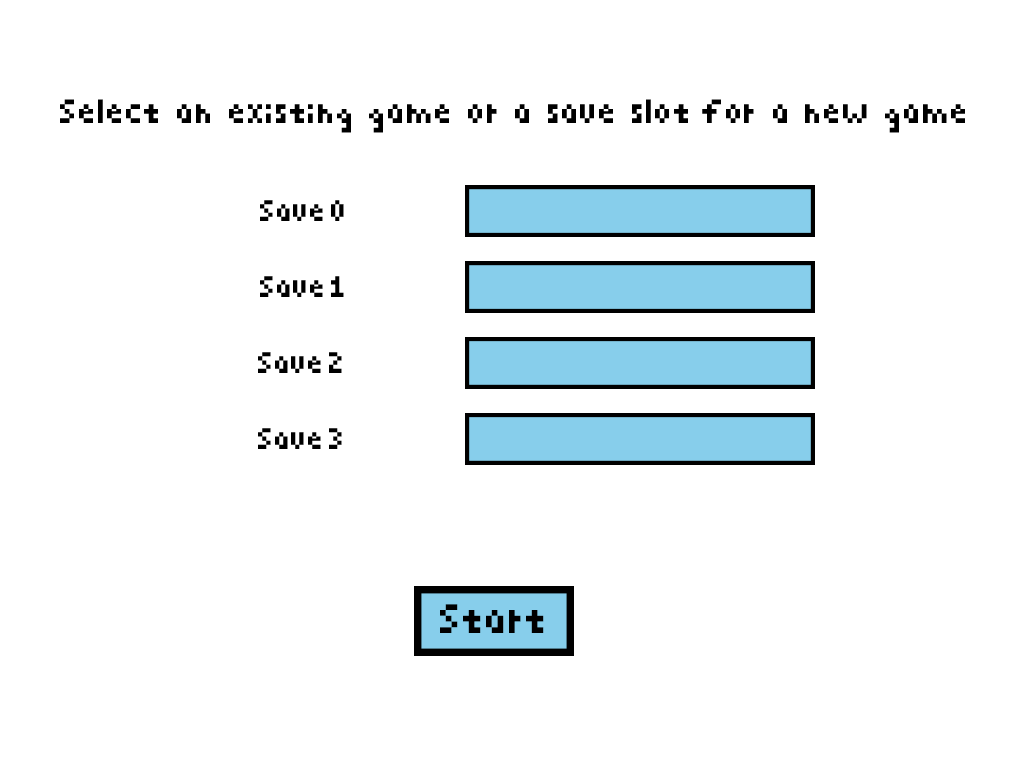
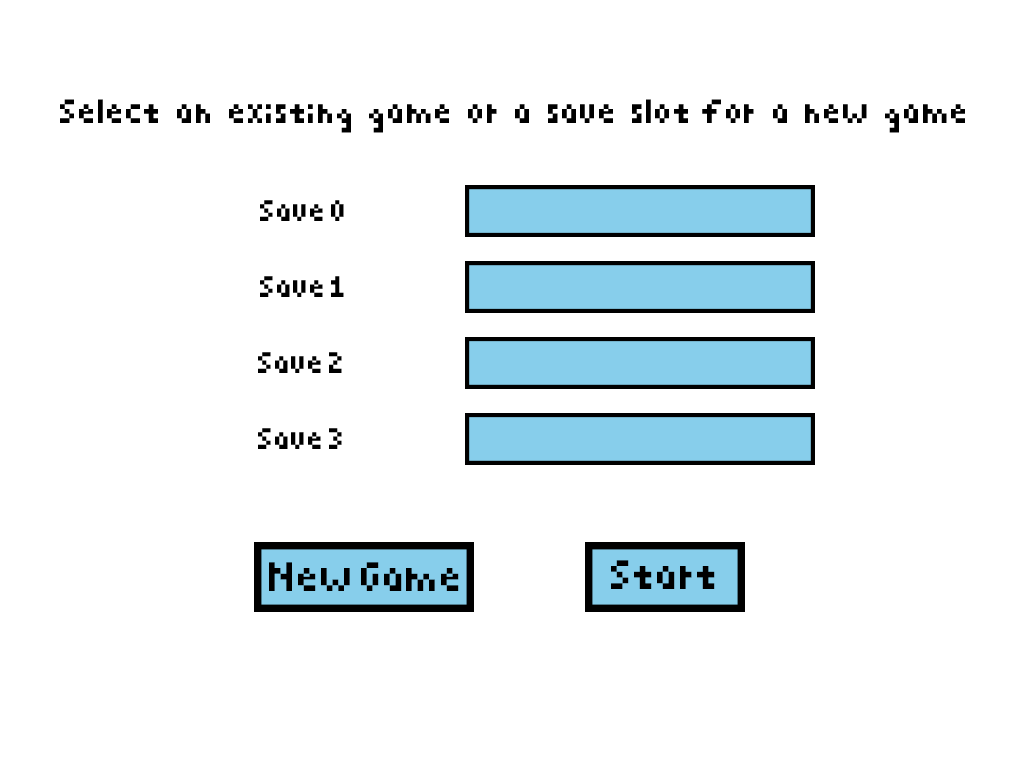
Improved save and load menus

Changed region(s): [[0.25, 0.6875, 0.75, 0.875]]

diff --git a/MonsterGenome/SourceFiles/StartMenu.cpp b/MonsterGenome/SourceFiles/StartMenu.cpp
@@ -6,6 +6,16 @@ StartMenu::StartMenu(float width, float height, std::map<std::string, sf::Keyboa
     selected = 0;
     entered = -1;
 
+    font.loadFromFile("../../Assets/Fonts/PixelFont.ttf");
+    error.setString("Error: No save slot selected!");
+    error.setFont(font);
+    error.setFillColor(Color::Red);
+    error.setCharacterSize(45);
+    FloatRect errorBox = error.getGlobalBounds();
+    float errorOffset = errorBox.width / 2;
+    error.setPosition((1024 / 2) - errorOffset, 668);
+    errorFlag = false;
+
     xValue = 465;
     yValue[0] = 185;
     yValue[1] = 261;
@@ -15,9 +25,13 @@ StartMenu::StartMenu(float width, float height, std::map<std::string, sf::Keyboa
     menu.loadFromFile("../../Assets/Backgrounds/StartScreen/StartMenu.png");
     menuSprite.setTexture(menu);
 
+    newButton.loadFromFile("../../Assets/Backgrounds/StartScreen/NewGameButtonSelected.png");
+    newButtonSprite.setTexture(newButton);
+    newButtonSprite.setPosition(254, 542);
+
     startButton.loadFromFile("../../Assets/Backgrounds/StartScreen/StartButtonSelected.png");
     startButtonSprite.setTexture(startButton);
-    startButtonSprite.setPosition(414, 586);
+    startButtonSprite.setPosition(585, 542);
 
     enteredBox.loadFromFile("../../Assets/Backgrounds/SaveBoxEntered.png");
     enteredBoxSprite.setTexture(enteredBox);
@@ -62,29 +76,38 @@ void StartMenu::PollMenu(RenderWindow &window, GameState &state, Game &game){
                 MoveDown();
             }
 
+            if(pressed == controls["Move Right"]){
+                MoveRight();
+            }
+            if(pressed == controls["Move Left"]){
+                MoveLeft();
+            }
             if(pressed == controls["Pause"]){
                 state.SetState(GameState::MENU);
                 Reset();
             }
-            // FIXME: Connect to load functionality
             else if(pressed == Keyboard::Return){
                 if(selected == 4){
+                    LoadGame(game, selected);
+                    state.SetState(GameState::LVL1);
+                    Reset();
+                }
+                else if(selected == 5){
                     if(entered != -1){
                         LoadGame(game, entered);
-
                         state.SetState(GameState::LVL1);
                         state.SetPlaying(true);
                         Reset();
                     }
                     else{
-                        // TODO: Create a pop up error
-                        cout << "No save slot selected" << endl;
+                        errorFlag = true;
                     }
-
                 }
+
                 else{
                     enteredBoxSprite.setPosition(xValue, yValue[selected]);
                     entered = selected;
+                    errorFlag = false;
                 }
             }
         }
@@ -96,6 +119,9 @@ void StartMenu::Draw(RenderWindow &window){
     window.draw(menuSprite);
 
     if(selected == 4){
+        window.draw(newButtonSprite);
+    }
+    else if(selected == 5){
         window.draw(startButtonSprite);
     }
     else{
@@ -103,10 +129,18 @@ void StartMenu::Draw(RenderWindow &window){
         selectedBoxSprite.setPosition(xValue, yValue[selected]);
     }
     window.draw(enteredBoxSprite);
+
+    if(errorFlag){
+        window.draw(error);
+    }
 }
 
 void StartMenu::MoveUp(){
-    if(selected - 1 >= 0){
+    if(selected == 5){
+        moveSound.play();
+        selected = 3;
+    }
+    else if(selected - 1 >= 0){
         moveSound.play();
         selected--;
     }
@@ -116,7 +150,27 @@ void StartMenu::MoveUp(){
 }
 
 void StartMenu::MoveDown(){
-    if(selected + 1 < StartMenuOptions){
+    if(selected + 1 <= 4){
+        moveSound.play();
+        selected++;
+    }
+    else{
+        errorSound.play();
+    }
+}
+
+void StartMenu::MoveLeft() {
+    if(selected == 5){
+        moveSound.play();
+        selected--;
+    }
+    else{
+        errorSound.play();
+    }
+}
+
+void StartMenu::MoveRight() {
+    if(selected == 4){
         moveSound.play();
         selected++;
     }

diff --git a/MonsterGenome/SourceFiles/SaveLoadMenu.cpp b/MonsterGenome/SourceFiles/SaveLoadMenu.cpp
@@ -5,6 +5,16 @@ SaveLoadMenu::SaveLoadMenu(float width, float height, std::map<std::string, sf::
     selected = 0;
     entered = -1;
 
+    font.loadFromFile("../../Assets/Fonts/PixelFont.ttf");
+    error.setString("Error: No save slot selected!");
+    error.setFont(font);
+    error.setFillColor(Color::Red);
+    error.setCharacterSize(45);
+    FloatRect errorBox = error.getGlobalBounds();
+    float errorOffset = errorBox.width / 2;
+    error.setPosition((1024 / 2) - errorOffset, 668);
+    errorFlag = false;
+
     xValue = 465;
     yValue[0] = 185;
     yValue[1] = 261;
@@ -77,8 +87,7 @@ void SaveLoadMenu::PollMenu(RenderWindow &window, GameState &state, Game &game){
             if(pressed == controls["Move Left"]){
                 MoveLeft();
             }
-            // TODO: Create error pop up for invalid stuff
-            else if(pressed == Keyboard::Return){
+            if(pressed == Keyboard::Return){
                 if(selected == 4){
                     if(entered != -1){
                         SaveGame(game, entered);
@@ -86,7 +95,7 @@ void SaveLoadMenu::PollMenu(RenderWindow &window, GameState &state, Game &game){
                         Reset();
                     }
                     else{
-                        cout << "No save slot selected" << endl;
+                        errorFlag = true;
                     }
 
                 }
@@ -97,13 +106,14 @@ void SaveLoadMenu::PollMenu(RenderWindow &window, GameState &state, Game &game){
                         Reset();
                     }
                     else{
-                        cout << "No save slot selected" << endl;
+                        errorFlag = true;
                     }
 
                 }
                 else{
                     enteredBoxSprite.setPosition(xValue, yValue[selected]);
                     entered = selected;
+                    errorFlag = false;
                 }
             }
         }
@@ -126,6 +136,10 @@ void SaveLoadMenu::Draw(RenderWindow &window){
     }
 
     window.draw(enteredBoxSprite);
+
+    if(errorFlag){
+        window.draw(error);
+    }
 
 }
 

diff --git a/MonsterGenome/HeaderFiles/StartMenu.h b/MonsterGenome/HeaderFiles/StartMenu.h
@@ -22,7 +22,11 @@ private:
     std::map<std::string, sf::Keyboard::Key> *controlMapping;
 
     int xValue;
-    int yValue[StartMenuOptions - 1];
+    int yValue[4];
+
+    bool errorFlag;
+    Font font;
+    Text error;
 
     Texture menu;
     Sprite menuSprite;
@@ -30,6 +34,8 @@ private:
     Sprite backgroundSprite;
     Texture startButton;
     Sprite startButtonSprite;
+    Texture newButton;
+    Sprite newButtonSprite;
     Texture enteredBox;
     Sprite enteredBoxSprite;
     Texture selectedBox;
@@ -50,5 +56,7 @@ public:
     void Draw(RenderWindow &window);
     void MoveUp();
     void MoveDown();
+    void MoveRight();
+    void MoveLeft();
     void Reset();
 };

diff --git a/MonsterGenome/HeaderFiles/SaveLoadMenu.h b/MonsterGenome/HeaderFiles/SaveLoadMenu.h
@@ -25,6 +25,10 @@ private:
     int xValue;
     int yValue[4];
 
+    bool errorFlag;
+    Font font;
+    Text error;
+
     Texture menu;
     Sprite menuSprite;
     Texture background;
